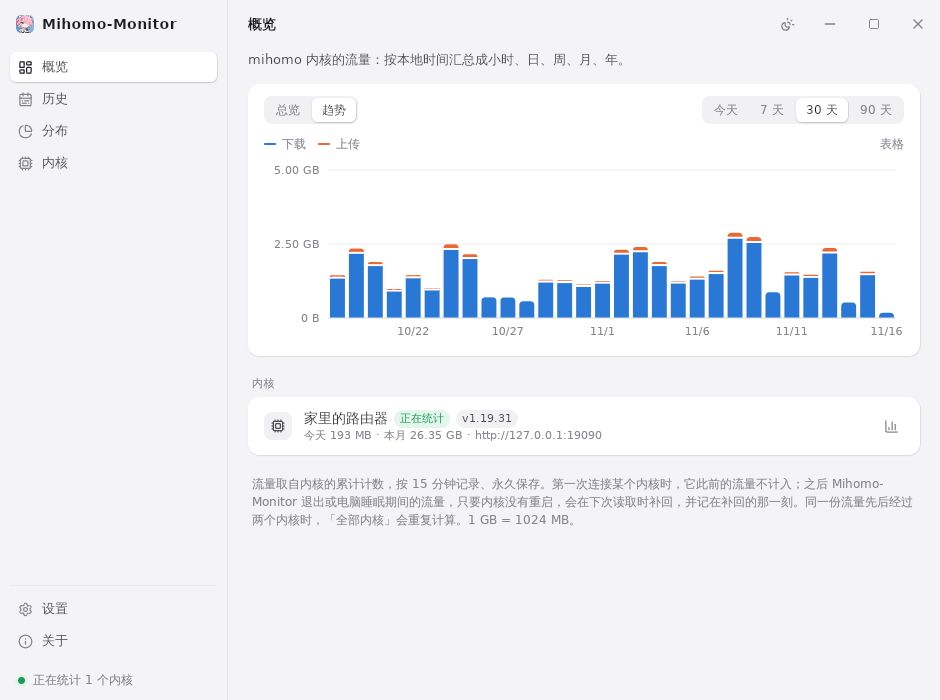
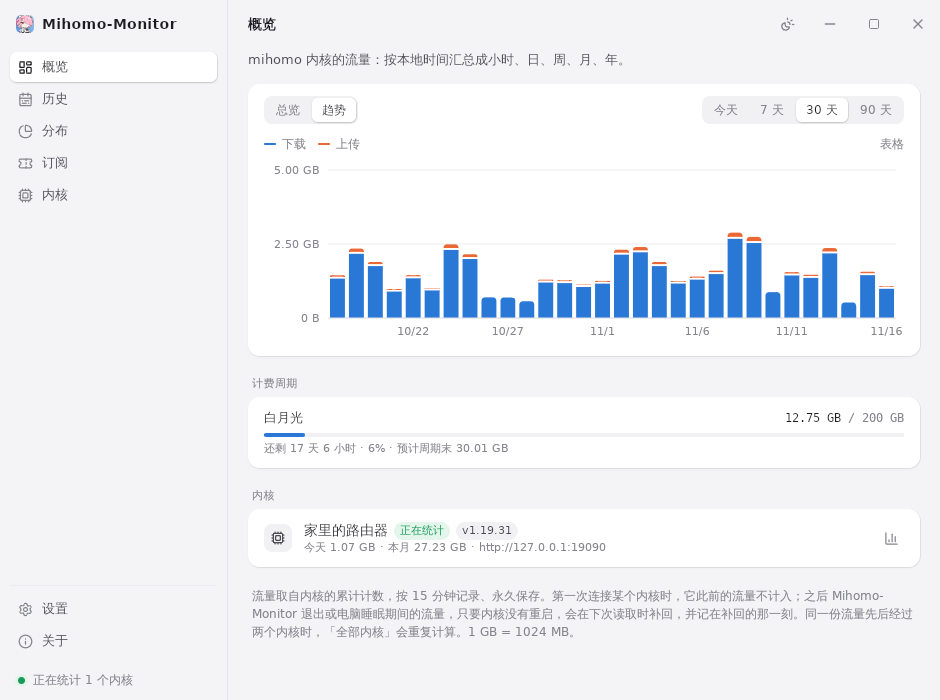
README 与设计文档补充计费周期，模拟内核加入机场订阅信息，更新截图

diff --git a/app/scripts/fake-mihomo.py b/app/scripts/fake-mihomo.py
@@ -5,7 +5,8 @@
     python3 app/scripts/fake-mihomo.py --port 19090 [--secret s3cret]
 
 Answers `GET /version`, streams `GET /traffic` (one JSON line per second, with the cumulative
-upTotal / downTotal) and lists made-up open connections on `GET /connections`: a few programs
+upTotal / downTotal), reports two subscriptions' usage on `GET /providers/proxies`, and lists
+made-up open connections on `GET /connections`: a few programs
 browsing, streaming and syncing through a handful of nodes from two subscriptions. Connections
 open and close over time, and some traffic belongs to connections too short-lived to be listed,
 as with a real core. Standard library only.
@@ -47,6 +48,26 @@ DIRECT_HOSTS = {"WeChat", "Steam", ""}
 INBOUNDS = [("DEFAULT-MIXED", 0.7), ("DEFAULT-TUN", 0.3)]
 # Share of the traffic carried by connections that open and close between two reads.
 UNSEEN = 0.08
+# What each subscription's provider reports: used GiB (upload, download) and allowance GiB.
+REPORTS = {"白月光": (6, 86, 200), "备用机场": (2, 16, 100)}
+GIB = 1024**3
+
+
+def providers():
+    now = time.time()
+    return {
+        "providers": {
+            name: {
+                "name": name,
+                "type": "Proxy",
+                "vehicleType": "HTTP",
+                "proxies": [],
+                "updatedAt": datetime.fromtimestamp(now - 3 * 3600, timezone.utc).isoformat(),
+                "subscriptionInfo": {"Upload": up * GIB, "Download": down * GIB, "Total": total * GIB, "Expire": int(now + 40 * 86400)},
+            }
+            for name, (up, down, total) in REPORTS.items()
+        }
+    }
 
 
 def pick(options, weight):
@@ -162,6 +183,8 @@ def handler_for(core: Core, secret: str):
                 self._json(VERSION)
             elif self.path.startswith("/connections"):
                 self._json(core.connections())
+            elif self.path.startswith("/providers/proxies"):
+                self._json(providers())
             elif self.path.startswith("/traffic"):
                 self.send_response(200)
                 self.send_header("Content-Type", "application/json")

diff --git a/app/scripts/demo-data.py b/app/scripts/demo-data.py
@@ -11,6 +11,7 @@ fake-mihomo.py uses; older traffic stays unattributed, as for someone who upgrad
 version without the split. Standard library only.
 """
 
+import json
 import math
 import os
 import random
@@ -102,6 +103,12 @@ def main():
         "INSERT INTO domain_daily (source_id, day, process_dim_id, domain_dim_id, up, down) VALUES (?, ?, ?, ?, ?, ?)"
         " ON CONFLICT DO UPDATE SET up = up + excluded.up, down = down + excluded.down",
         host_rows,
+    )
+    # A monthly cycle for the main subscription, twelve days into it.
+    reset_day = time.localtime(midnight - 12 * 86400).tm_mday
+    db.execute(
+        "INSERT OR REPLACE INTO cycles (subscription, anchor, quota_bytes, count_mode, alerts) VALUES (?, ?, ?, 'both', '[80,100]')",
+        ("白月光", json.dumps({"kind": "monthly", "day": reset_day, "hour": 0, "minute": 0}), 200 * 1024**3),
     )
     db.commit()
     print(f"added {len(rows)} traffic rows and {len(host_rows)} host rows to source {source}")

diff --git a/README.md b/README.md
@@ -27,6 +27,7 @@
 - [内核发现](#内核发现)
 - [历史](#历史)
 - [分布](#分布)
+- [订阅与计费周期](#订阅与计费周期)
 - [统计口径](#统计口径)
 - [后台常驻](#后台常驻)
 - [数据存储](#数据存储)
@@ -45,6 +46,7 @@
 | 实时速率与热力图 | 最近 5 分钟的下载与上传速率曲线，一年每天流量的热力图 |
 | 历史 | 按小时、日、周、月、年翻看任意时段，用量最高的日子排行，自定义起止日期，导出 CSV（对应 vnstat 的 -h / -d / -w / -m / -y / -t） |
 | 分布 | 流量去了哪里：按实际出站节点、订阅、进程、入站和域名排行，展开进程可看它访问的域名 |
+| 计费周期 | 每个订阅设置重置日与配额，显示本周期用量、预计周期末用量，用到 80% / 100% 时发系统通知，并与机场返回的已用量对照 |
 | 多个内核 | 本机与路由器（OpenClash 等）的内核可以同时统计，分别查看或合计 |
 | 常驻托盘 | 开机自启，托盘悬停显示今日用量；轻量模式下关闭窗口会连界面一起释放 |
 
@@ -111,6 +113,25 @@ unix socket 与 Windows 命名管道不需要 secret（mihomo 不在这两个通
 | 域名 | 连接的域名，没有域名时是 IP；可以按主域名合并（`a.cdn.example.co.uk` 计入 `example.co.uk`） |
 
 时间范围可选今天、昨天、本周、本月、近 30 天、今年。
+
+## 订阅与计费周期
+
+<div align="center">
+<img src="docs/images/subscriptions.png" alt="订阅页" width="720">
+</div>
+
+**订阅** 页列出有流量经过的订阅（订阅的认定方式见上一节），可以为每个订阅设置计费周期：
+
+| 设置 | 说明 |
+| --- | --- |
+| 重置 | 每月第 N 日的某个时刻（N 大于当月天数时在月末重置），或从某天起每隔 N 天；时刻以 15 分钟为单位。新建时默认取机场到期日的日期，多数机场按购买日每月重置 |
+| 计量 | 上传 + 下载（多数机场如此），或仅下载 |
+| 配额 | 可选，默认取机场返回的总量 |
+| 提醒 | 用到配额的 50% / 80% / 90% / 100% 时发系统通知，默认 80% 与 100%；每个周期每条提醒线只通知一次 |
+
+设置后显示本周期的起止、已用、剩余、按目前速度预计的周期末用量和日均；概览页与托盘悬停文字也会显示各周期的用量。
+
+机场数据（已用、总量、到期时间）来自 Clash Verge Rev 保存的订阅信息，或内核里 proxy-provider 的订阅信息，与本地统计并排显示。两者通常不同：机场统计的是使用这个订阅的所有设备，还可能按节点倍率计费；开始按连接统计之前的流量也无法区分订阅。
 
 ## 统计口径
 
@@ -182,7 +203,8 @@ app/scripts/readme-screenshots.sh
 - [x] 总量统计：日 / 周 / 月 / 年、实时速率、断点续算
 - [x] 历史浏览：小时 / 日 / 周 / 月 / 年、排行、自定义时段、导出 CSV
 - [x] 按节点、订阅、DIRECT、进程、入站、域名拆分
-- [ ] 按订阅设置计费周期与配额，对照机场返回的已用量
+- [x] 按订阅设置计费周期与配额，提醒，对照机场返回的已用量
+- [ ] 订阅改名后合并旧名称的历史
 - [ ] 更多客户端的实测与适配
 
 ## 已知限制

diff --git a/docs/design.md b/docs/design.md
@@ -158,9 +158,17 @@ cycles      (id, subscription, anchor, quota_bytes, count_mode, alerts)
 - **计量方式**：上行 + 下行（默认，多数机场如此），或仅下行。
 - **配额**：默认取机场返回的总量，可手动改；达到 80% / 100% 时发系统通知（阈值可改）。
 - **对照**：卡片上并列显示本地统计的本周期用量与机场返回的已用量（`Upload + Download`）。两者会有出入：机场按节点倍率计费、其他设备也在用同一订阅、Monitor 没在运行的时段，界面上注明这几种原因。
-- 订阅以名称标识（provider 名，或客户端里的配置名）；用户改了订阅名，可在周期设置里把旧名称的历史合并过来。
+- 订阅以名称标识（provider 名，或客户端里的配置名）。【未实现】用户改了订阅名后，把旧名称的历史合并过来。
 
 周期计算是纯函数（输入：规则、时区、当前时刻；输出：周期起止），重点测试月末、闰年和夏令时。
+
+实现说明（里程碑 5）：
+
+- 周期存在 `cycles` 表，每个订阅一条（v3 迁移加了唯一索引）；重置规则以带 `kind` 的 JSON 存在 `anchor` 列。
+- 本周期用量 = 订阅维度在周期内各内核的合计（同一订阅被多个内核使用时合并），按计量方式取上传 + 下载或仅下载。开始按连接统计之前的流量没有订阅信息，不计入。
+- 机场数据：Verge 从 `profiles.yaml` 的 `extra` 读（文件变化才重读）；`proxy-providers` 每 10 分钟读一次 `/providers/proxies`。只保存在内存里。
+- 提醒：每分钟写盘后检查一次；每个周期每个阈值只通知一次，记录在 `meta` 表（`alerted:<周期 id>:<周期开始>`）。通知用 `tauri-plugin-notification`。
+- 展示：「订阅」页（周期进度、预计周期末用量、日均、机场数据对照、设置对话框），概览页的「计费周期」进度条，托盘悬停文字。
 
 ## 8. 代码结构
 
@@ -185,7 +193,7 @@ app/
 2. ✅ **总量采集**：Clash Verge Rev 适配器 + 手动添加；累计计数、检查点、15 分钟桶；托盘显示今日用量。
 3. ✅ **vnstat 视图**：概览（日 / 周 / 月 / 年、实时曲线、热力图）与历史页（小时 / 日 / 周 / 月 / 年翻页、排行、自定义时段、导出 CSV）。
 4. ✅ **按维度拆分**：`/connections` 采集；节点 / 订阅 / DIRECT / 进程 / 入站 / 域名排行（分布页）；域名按天前 200 名；“未归类”。
-5. **计费周期**：每订阅一个周期、配额提醒、机场 `subscriptionInfo` 对照。
+5. ✅ **计费周期**：每订阅一个周期、配额提醒、机场数据（Verge `extra` / `subscriptionInfo`）对照。
 6. **更多客户端与发布**：其余客户端适配器、CI、自动更新、README。
 
 ## 10. 已确认的决定
